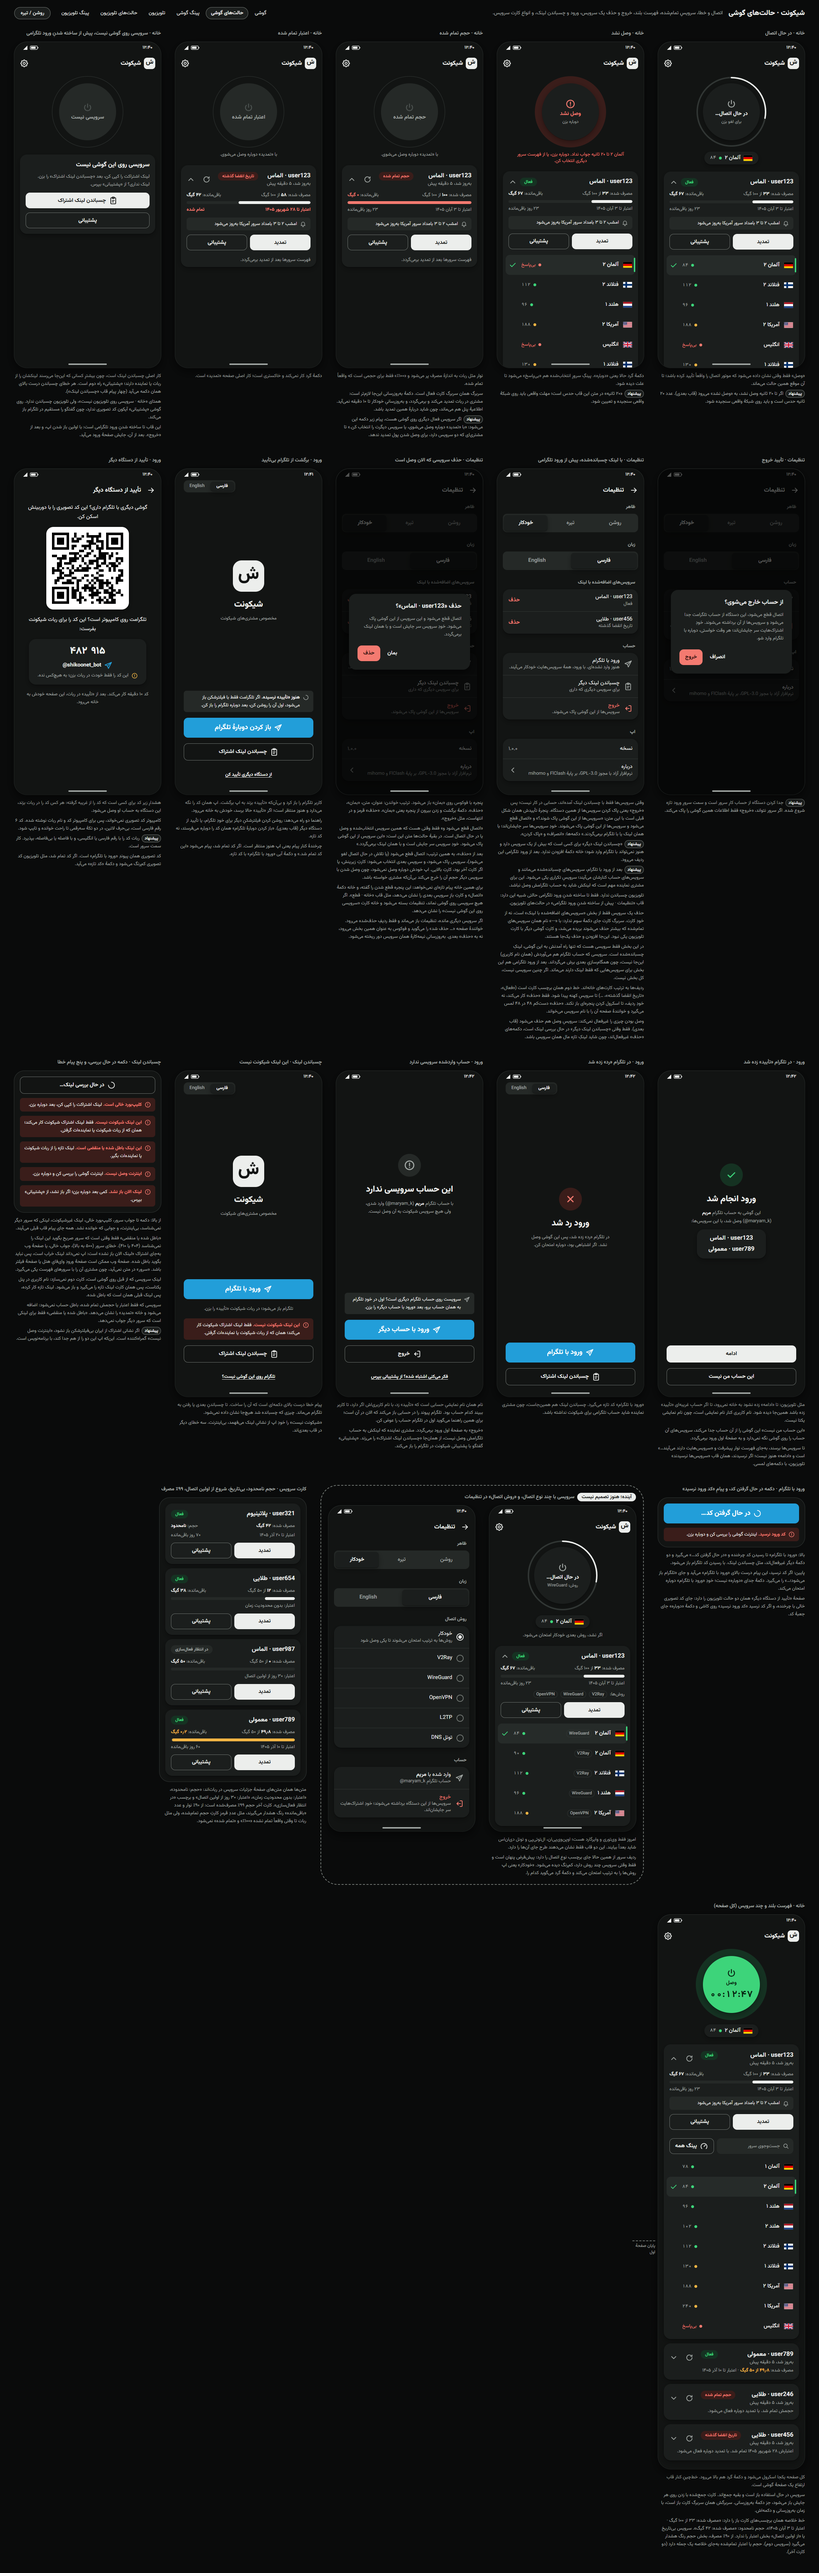
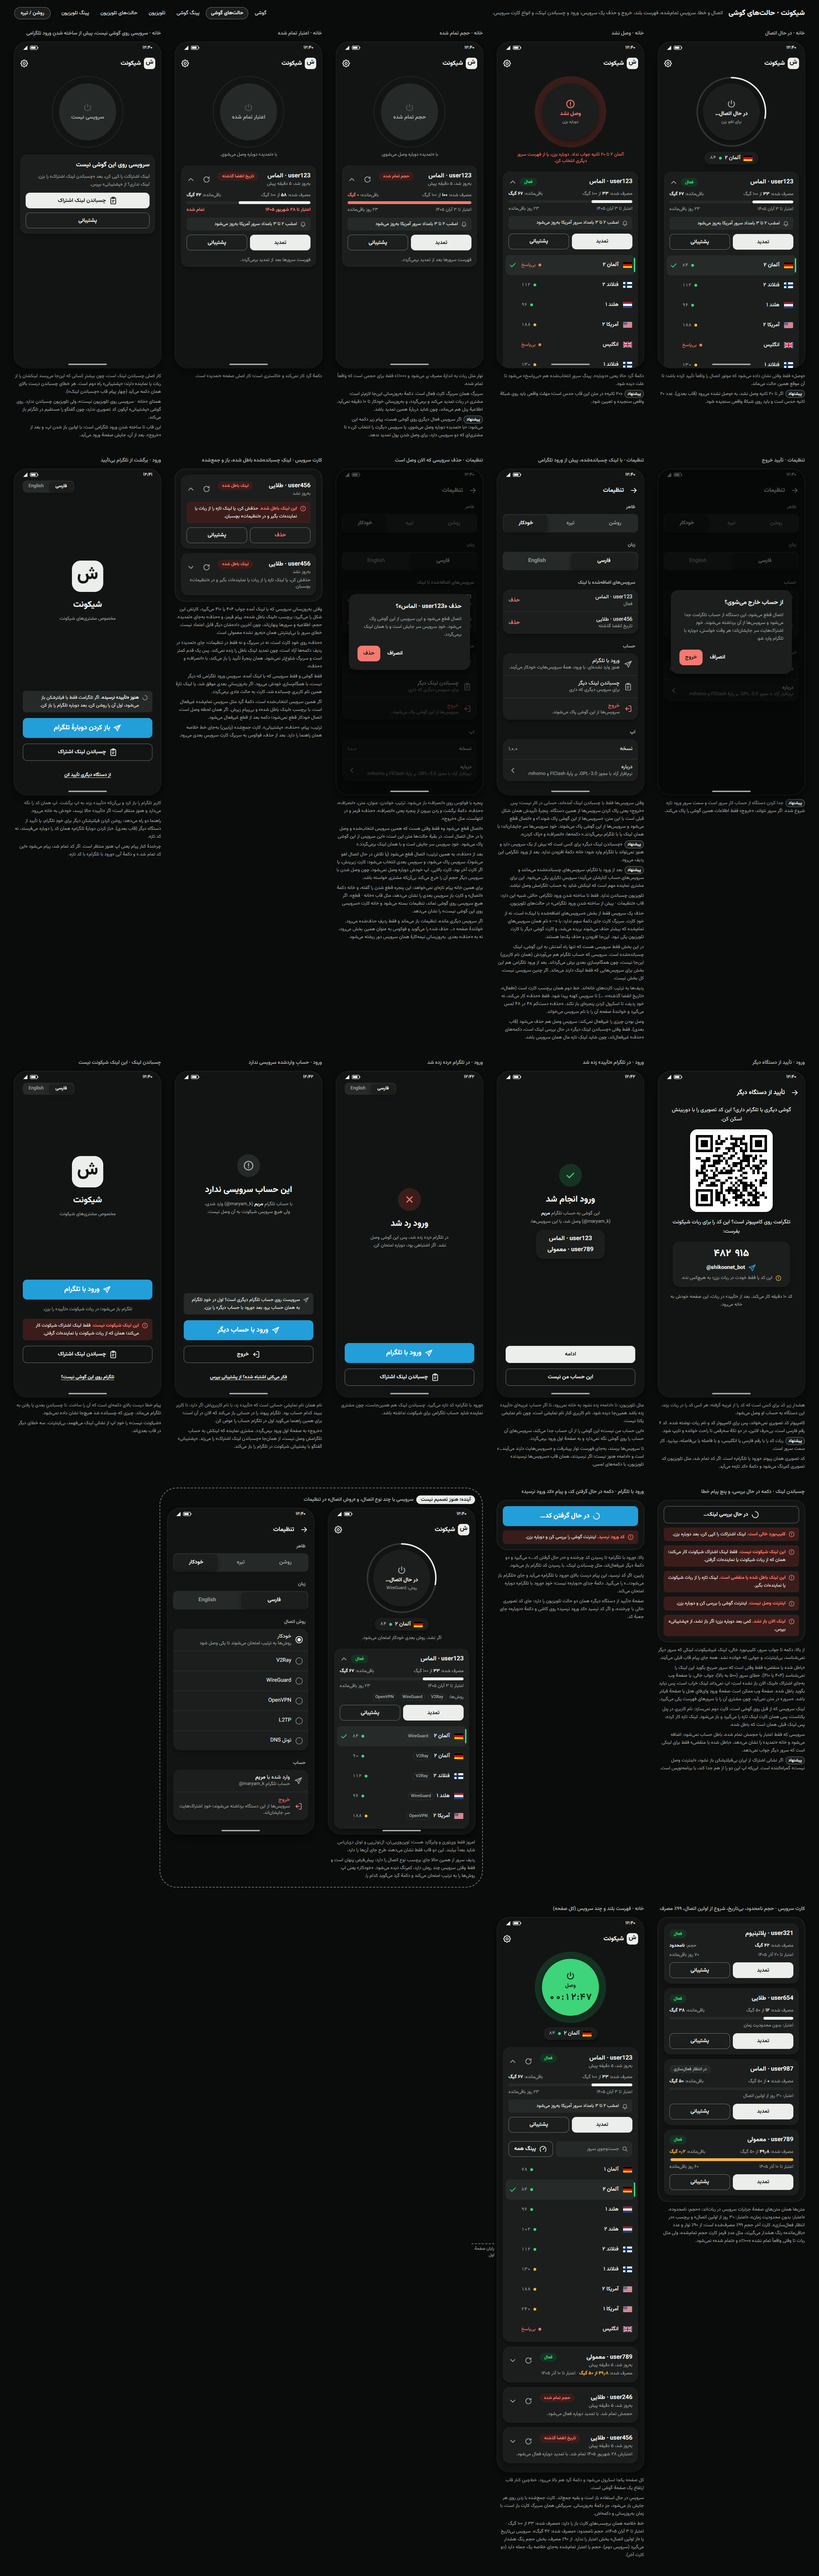
docs(design): word Cancel the same everywhere and draw the revoked-link card
The remove dialog's safe button says Cancel, like the sign-out dialog,
under one shared cancelButton key.

When a pasted service's refresh gets 404 or 410, its card says the link
was revoked and puts Remove where Renew was, since renewing cannot
revive a revoked link; the crowded header stays as it is. Phone and
pasted services only.

diff --git a/design/mockups/phone-states.html b/design/mockups/phone-states.html
@@ -477,18 +477,56 @@
           <h2 id="remove-title">حذف «<bdi dir="ltr">user123</bdi> · الماس»؟</h2>
           <p>اتصال قطع میشود و این سرویس از این گوشی پاک میشود. خودِ سرویس سر جایش است و با همان لینک برمیگردد.</p>
           <div class="dialog-actions">
-            <button class="btn btn-text" type="button">بمان</button>
+            <button class="btn btn-text" type="button">انصراف</button>
             <button class="btn btn-danger" type="button">حذف</button>
           </div>
         </div>
       </div>
       <div class="gesture"></div>
     </div>
-    <p class="note">پنجره با فوکوس روی «بمان» باز میشود. ترتیب خواندن: عنوان، متن، «بمان»، «حذف». دکمهٔ برگشت و زدن بیرون از پنجره یعنی «بمان». «حذف» قرمز و در انتهاست، مثل «خروج».</p>
+    <p class="note">پنجره با فوکوس روی «انصراف» باز میشود. ترتیب خواندن: عنوان، متن، «انصراف»، «حذف». دکمهٔ برگشت و زدن بیرون از پنجره یعنی «انصراف». «حذف» قرمز و در انتهاست، مثل «خروج».</p>
     <p class="note">«اتصال قطع میشود و» فقط وقتی هست که همین سرویس انتخابشده و وصل یا در حال اتصال است. در بقیهٔ حالتها متن این است: «این سرویس از این گوشی پاک میشود. خودِ سرویس سر جایش است و با همان لینک برمیگردد.»</p>
     <p class="note">بعد از «حذف»، به همین ترتیب: اتصال قطع میشود (یا تلاشِ در حال اتصال لغو میشود)، سرویس پاک میشود، و سرویسِ بعدی انتخاب میشود: کارتِ زیرینش، یا اگر کارت آخر بود، کارتِ بالایی. اپ خودش دوباره وصل نمیشود، چون وصل شدن با سرویس دیگر حجمِ آن را خرج میکند بیآنکه مشتری خواسته باشد.</p>
     <p class="note">برای همین خانه پیام تازهای نمیخواهد: این پنجره قطع شدن را گفته، و خانه دکمهٔ «اتصال» و کارتِ بازِ سرویسِ بعدی را نشان میدهد، مثل قاب «خانه · قطع». اگر هیچ سرویسی روی گوشی نماند، تنظیمات بسته میشود و خانه کارت «سرویسی روی این گوشی نیست» را نشان میدهد.</p>
     <p class="note">اگر سرویس دیگری مانده، تنظیمات باز میماند و فقط ردیفِ حذفشده میرود. خوانندهٔ صفحه «… حذف شد» را میگوید و فوکوس به عنوان همین بخش میرود، نه به «حذف» بعدی. بهروزرسانیِ نیمهکارهٔ همان سرویس دور ریخته میشود.</p>
+  </figure>
+
+  <!-- لینکِ چسباندهشده که بعداً باطل شد -->
+  <figure class="shot">
+    <figcaption>کارت سرویس · لینکِ چسباندهشده باطل شده، باز و جمعشده</figcaption>
+    <div class="cards-stack" data-frame="phone-cards-revoked">
+      <article class="card svc">
+        <header class="svc-head">
+          <div class="svc-titles">
+            <div class="svc-line"><h2 class="svc-name"><bdi dir="ltr">user456</bdi> · طلایی</h2><span class="chip chip-danger">لینک باطل شده</span></div>
+            <p class="svc-sub">بهروز نشد</p>
+          </div>
+          <button class="icon-btn" type="button" aria-label="بهروزرسانی سرورها"><svg class="icon"><use href="#i-refresh"/></svg></button>
+          <svg class="icon"><use href="#i-chevron-up"/></svg>
+        </header>
+        <p class="notice msg danger"><svg class="icon"><use href="#i-alert"/></svg><span><strong>این لینک باطل شده.</strong> حذفش کن، یا لینک تازه را از ربات یا نمایندهات بگیر و در «تنظیمات» بچسبان.</span></p>
+        <div class="actions">
+          <button class="btn btn-outline danger" type="button" aria-label="حذف user456 · طلایی">حذف</button>
+          <button class="btn btn-outline" type="button">پشتیبانی</button>
+        </div>
+      </article>
+      <article class="card svc">
+        <header class="svc-head">
+          <div class="svc-titles">
+            <div class="svc-line"><h2 class="svc-name"><bdi dir="ltr">user456</bdi> · طلایی</h2><span class="chip chip-danger">لینک باطل شده</span></div>
+            <p class="svc-sub">بهروز نشد</p>
+          </div>
+          <button class="icon-btn" type="button" aria-label="بهروزرسانی سرورها"><svg class="icon"><use href="#i-refresh"/></svg></button>
+          <svg class="icon"><use href="#i-chevron-down"/></svg>
+        </header>
+        <p class="svc-summary">حذفش کن، یا لینک تازه را از ربات یا نمایندهات بگیر و در «تنظیمات» بچسبان.</p>
+      </article>
+    </div>
+    <p class="note">وقتی بهروزرسانیِ سرویسی که با لینک آمده جواب ۴۰۴ یا ۴۱۰ میگیرد، کارتش این شکل را میگیرد: برچسب «لینک باطل شده»، پیام قرمز، و «حذف» بهجای «تمدید». حجم، اطلاعیه و سرورها پنهاناند، چون آخرین دادهشان دیگر قابل اعتماد نیست. خطای سرور یا بیاینترنتی همان «بهروز نشد» معمولی است.</p>
+    <p class="note">«حذف» روی خودِ کارت است، نه در سربرگ و نه فقط در تنظیمات: جای «تمدید» در ردیف دکمهها آزاد است، چون تمدید لینکِ باطل را زنده نمیکند. پس یک قدم کمتر است و سربرگ شلوغتر نمیشود. همان پنجرهٔ تأیید را باز میکند، با «انصراف» و «حذف».</p>
+    <p class="note">فقط گوشی و فقط سرویسی که با لینک آمده. سرویسِ ورود تلگرامی که دیگر نیست، با همگامسازی خودش میرود. اگر بهروزرسانیِ بعدی موفق شد، یا لینک تازهٔ همین نام کاربری چسبانده شد، کارت به حالت عادی برمیگردد.</p>
+    <p class="note">اگر همین سرویس انتخابشده است، دکمهٔ گرد مثل سرویسِ تمامشده غیرفعال است، با برچسب «لینک باطل شده» و بیپیامِ زیرش. اگر همان لحظه وصل است، اتصال خودکار قطع نمیشود؛ دکمه بعد از قطع غیرفعال میشود.</p>
+    <p class="note">ترتیب: پیام، «حذف»، «پشتیبانی». کارت جمعشده (پایین) بهجای خط خلاصه همان راهنما را دارد. بعد از حذف، فوکوس به سربرگ کارتِ سرویسِ بعدی میرود.</p>
   </figure>
 
   <!-- برگشت از تلگرام بیتأیید -->

diff --git a/design/mockups/mockup.css b/design/mockups/mockup.css
@@ -6,7 +6,7 @@
  *
  * فهرست اجزا و حالتها (کلاسها):
  *   ۱. نشان ............ .brand .mark
- *   ۲. دکمه ............ .btn + .btn-primary | .btn-outline | .btn-telegram | .btn-danger | .btn-text (+ .danger) ؛ .btn-link ؛ .icon-btn
+ *   ۲. دکمه ............ .btn + .btn-primary | .btn-outline | .btn-telegram | .btn-danger | .btn-text ؛ .danger روی دکمهٔ متنی یا دورخطدار ؛ .btn-link ؛ .icon-btn
  *   ۳. برچسب وضعیت ..... .chip + .chip-positive | .chip-danger | .chip-muted
  *   ۴. کارت سرویس ...... .card.svc ؛ باز (با .usage و .servers) یا جمعشده (با .svc-summary) ؛ .with-proto
  *   ۵. حجم و اعتبار .... .usage .usage-row .bar + .is-warning | .is-full ؛ نامحدود = بینوار
@@ -76,7 +76,7 @@ ul { list-style: none; }
 .btn-telegram { background: var(--color-telegram); color: var(--color-on-telegram); font-size: var(--text-button-lg); }
 .btn-danger   { background: var(--color-danger); color: var(--color-on-danger); }
 .btn-text     { padding-inline: var(--space-3); }
-.btn-text.danger { color: var(--color-danger); }
+.btn.danger { color: var(--color-danger); } /* دکمهٔ متنی یا دورخطدارِ «حذف»؛ لبهٔ دورخطدار خنثی میماند */
 .btn-link {
   align-self: center; min-block-size: var(--size-touch); padding-inline: var(--space-3);
   font-size: var(--text-body-sm); font-weight: var(--font-weight-bold); text-decoration: underline; text-underline-offset: 0.3em;
